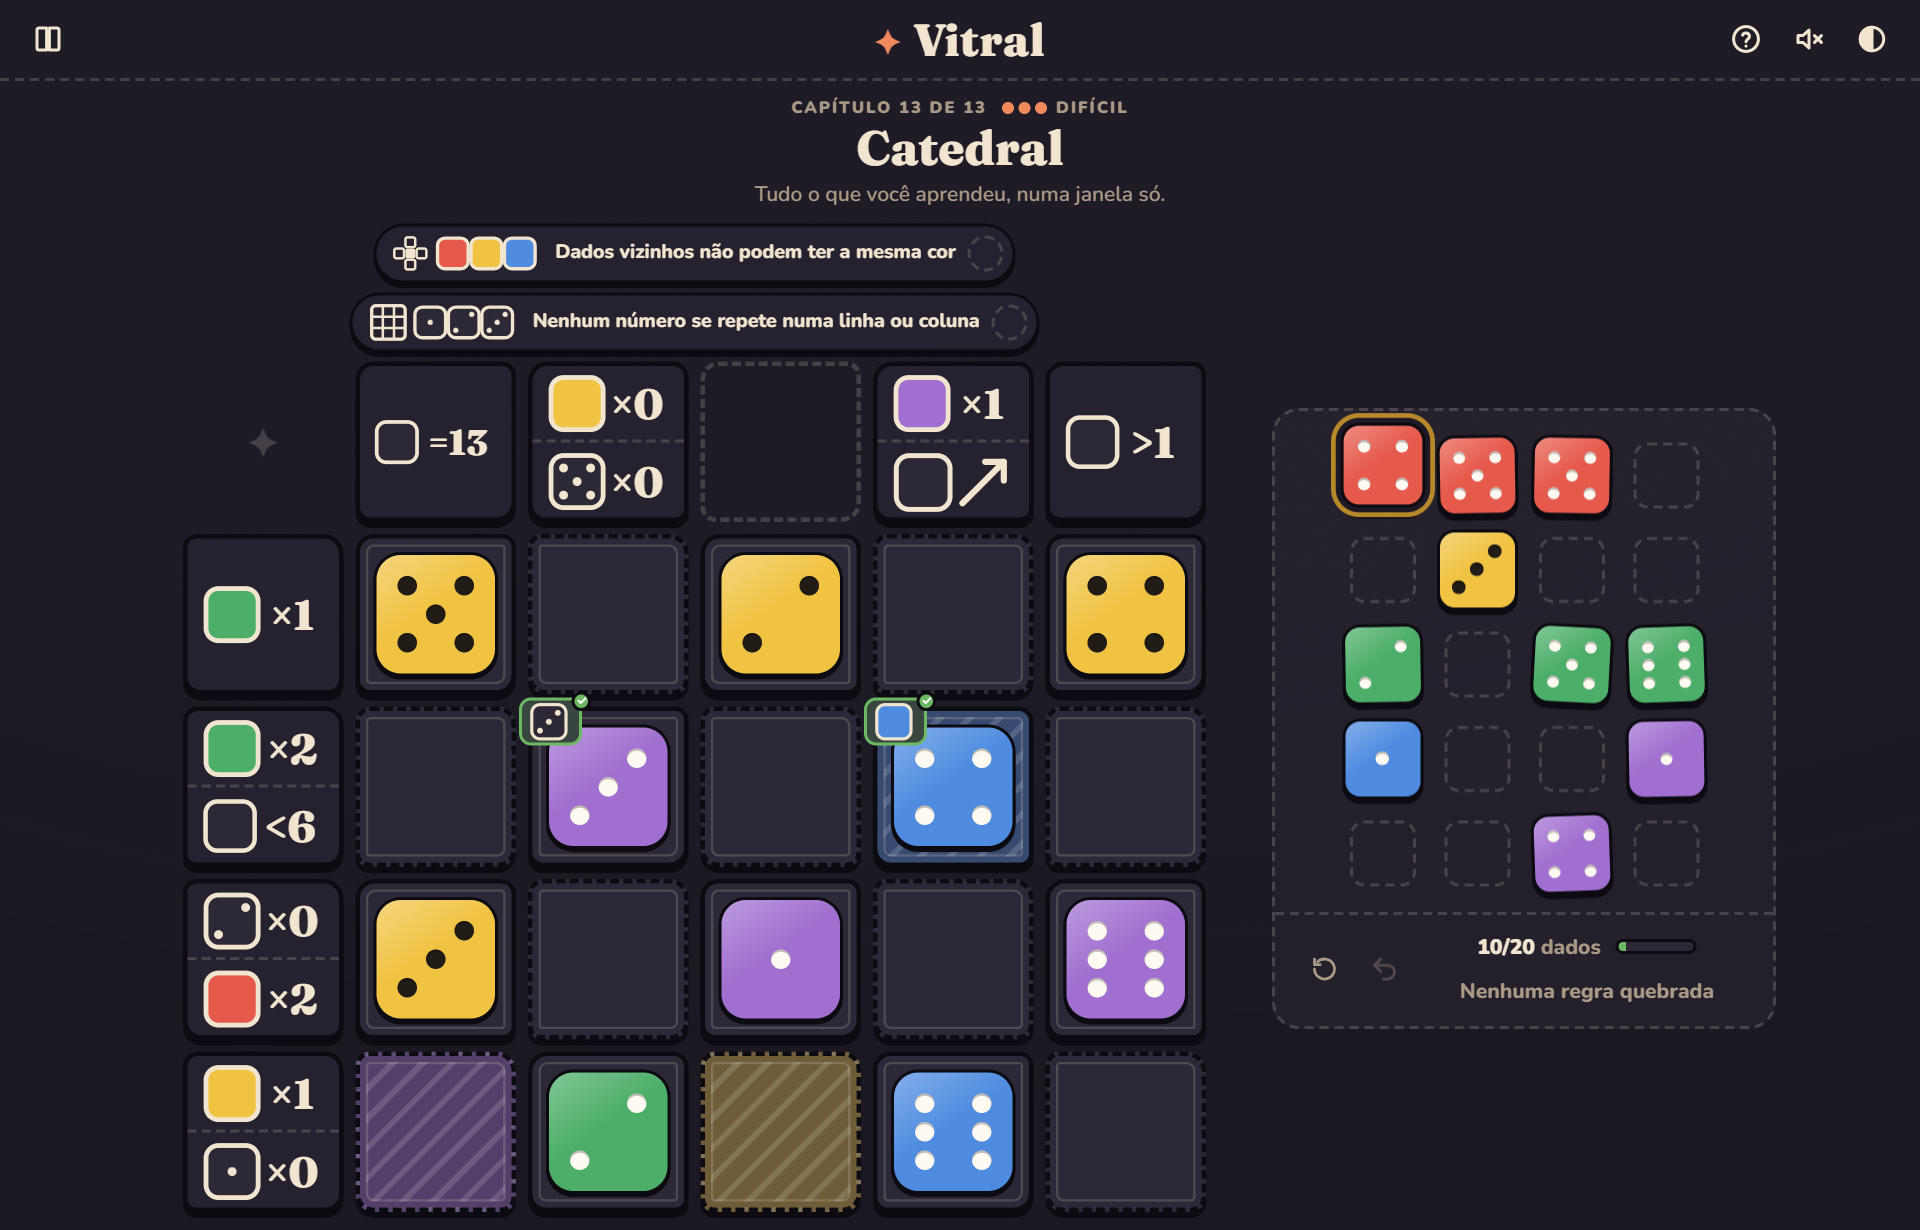
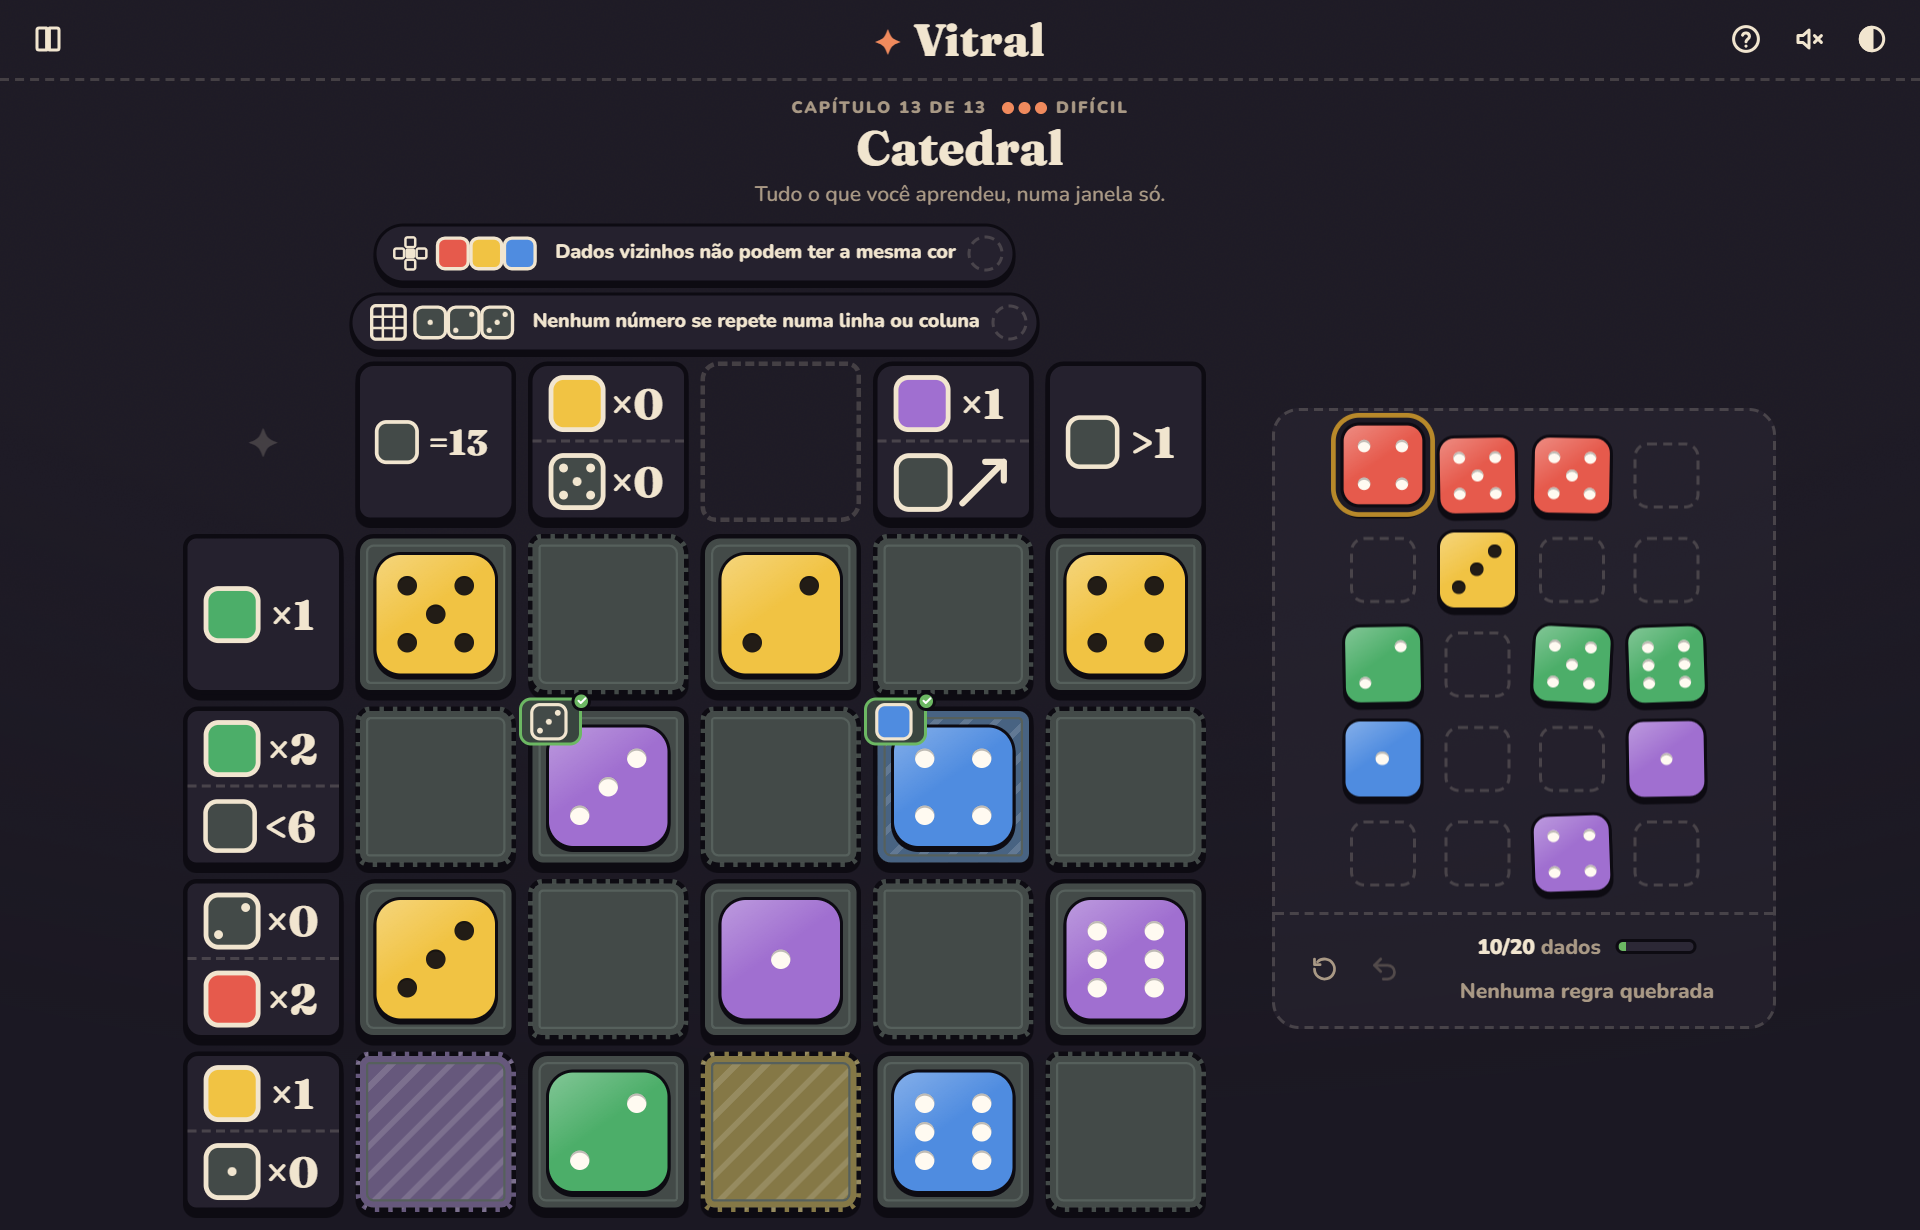
Clear glass is the color of "any"
Empty cells and the empty die in rule glyphs use one clear-glass tone
(--clear, with a dark theme counterpart) instead of paper white, so the
board and the symbols share the same meaning for "any die".

diff --git a/src/styles/main.css b/src/styles/main.css
@@ -26,6 +26,9 @@
   --die-purple: #8c58bb;
   --pip-light: #fffaf1;
   --pip-dark: #3b2b20;
+  /* Clear glass: uncolored panes, and the color of "any" in rule symbols */
+  --clear: #dfe3d6;
+  --clear-edge: #c9cfbf;
 
   --font-display: 'Fraunces', 'Iowan Old Style', Georgia, serif;
   --font-body: 'Nunito', ui-rounded, system-ui, 'Segoe UI', sans-serif;
@@ -61,6 +64,8 @@
     --die-blue: #4f8ce0;
     --die-purple: #a06fd0;
     --pip-dark: #221c16;
+    --clear: #434a48;
+    --clear-edge: #56605c;
     color-scheme: dark;
   }
 }
@@ -88,6 +93,8 @@
   --die-blue: #4f8ce0;
   --die-purple: #a06fd0;
   --pip-dark: #221c16;
+  --clear: #434a48;
+  --clear-edge: #56605c;
   color-scheme: dark;
 }
 
@@ -497,13 +504,13 @@ button {
 /* ── Cells ──────────────────────────────────────────────────────────────── */
 
 .cell {
-  --glass: var(--panel);
+  --glass: var(--clear);
   position: relative;
   background: var(--glass);
   border: 3px solid var(--stroke);
   box-shadow:
     inset 0 0 0 4px var(--glass),
-    inset 0 0 0 5.5px var(--faint),
+    inset 0 0 0 5.5px var(--clear-edge),
     0 4px 0 var(--stroke);
   cursor: pointer;
   transition: background 0.15s, transform 0.15s, border-color 0.15s;
@@ -519,7 +526,7 @@ button {
 .cell[data-req-color='purple'] { --c: var(--die-purple); }
 
 .cell[data-req-color] {
-  --glass: color-mix(in srgb, var(--c) 34%, var(--panel));
+  --glass: color-mix(in srgb, var(--c) 38%, var(--clear));
   background-image: repeating-linear-gradient(-45deg, transparent 0 10px, rgb(255 255 255 / 0.14) 10px 14px);
 }
 
@@ -532,21 +539,21 @@ button {
 
 .cell.is-hover,
 .cell.is-focus {
-  --glass: var(--hover);
+  --glass: color-mix(in srgb, var(--select) 30%, var(--clear));
 }
 
 .cell[data-req-color].is-hover,
 .cell[data-req-color].is-focus {
-  --glass: color-mix(in srgb, var(--c) 50%, var(--panel));
+  --glass: color-mix(in srgb, var(--c) 52%, var(--clear));
 }
 
 @media (hover: hover) {
   .cell:hover {
-    --glass: var(--hover);
+    --glass: color-mix(in srgb, var(--select) 30%, var(--clear));
   }
 
   .cell[data-req-color]:hover {
-    --glass: color-mix(in srgb, var(--c) 50%, var(--panel));
+    --glass: color-mix(in srgb, var(--c) 52%, var(--clear));
   }
 }
 

diff --git a/src/ui/dice.ts b/src/ui/dice.ts
@@ -102,7 +102,7 @@ const text = (x: number, content: string, size: number) =>
 
 /** A die of side `s` centered at (cx, MID): filled with its color, pips for its number. */
 function dieMark(cx: number, s: number, color?: Color, value?: number): string {
-  const fill = color ? `style="fill: var(--die-${color})"` : 'style="fill: var(--panel)"';
+  const fill = color ? `style="fill: var(--die-${color})"` : 'style="fill: var(--clear)"';
   let out = `<rect x="${cx - s / 2}" y="${MID - s / 2}" width="${s}" height="${s}" rx="${s * 0.24}" ${fill} ${STROKE}/>`;
   if (value) {
     const pip = color === 'yellow' || !color ? 'currentColor' : '#fffaf1';
